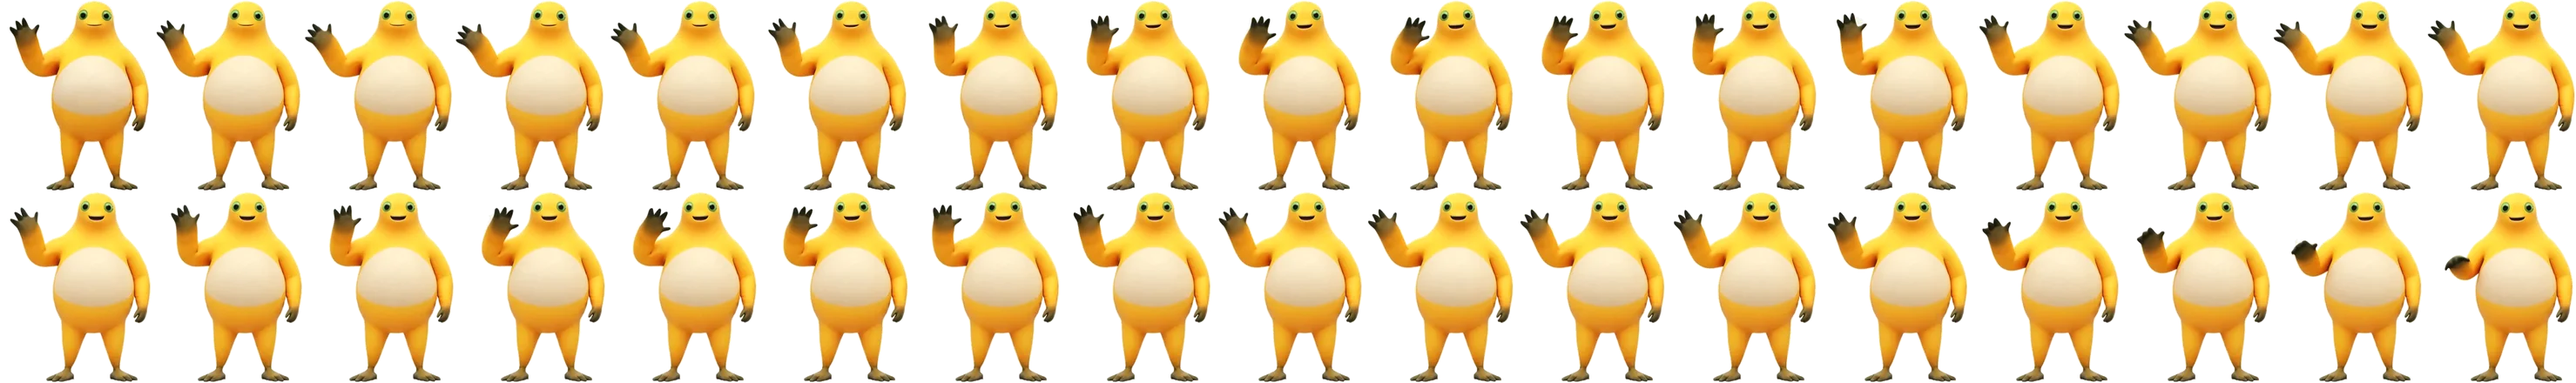
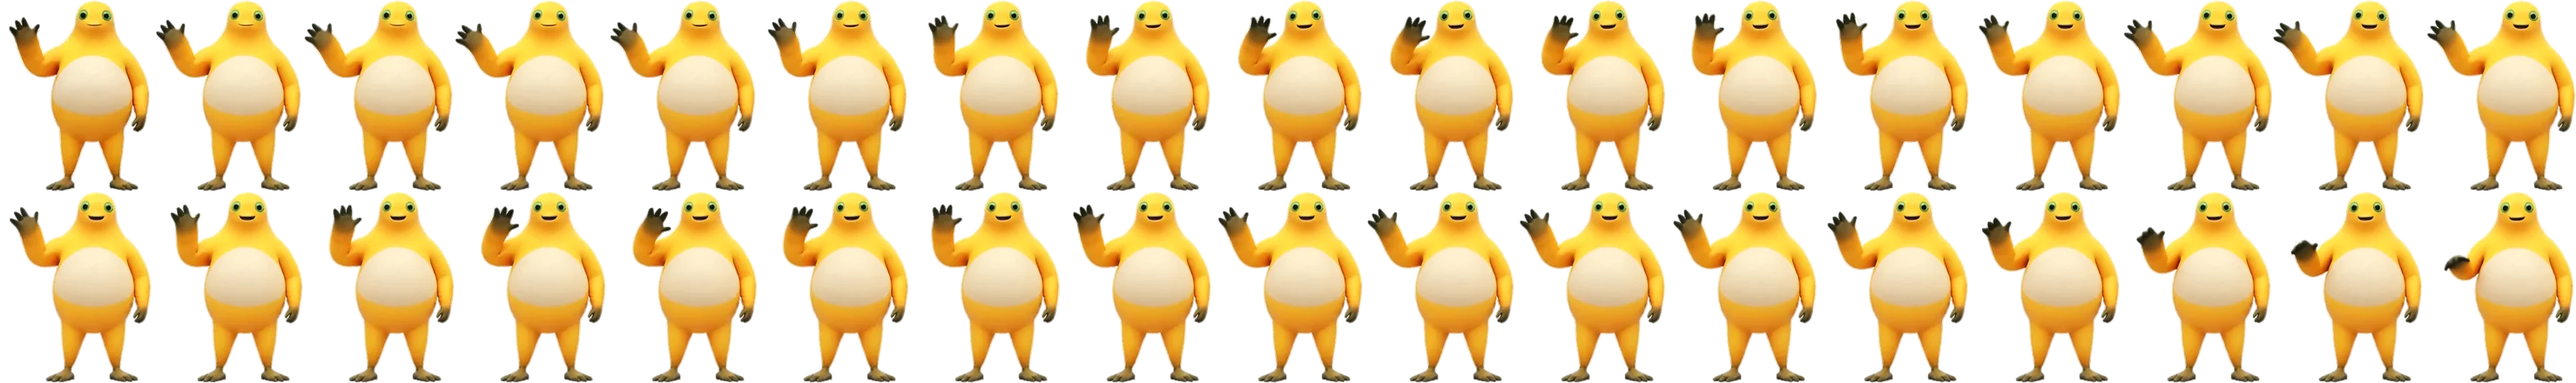
fix(deskpet): 挥手素材去掉白描边（边缘颜色外推，边缘与内部亮度差 52.05→3.14）

diff --git a/docs/状态.md b/docs/状态.md
@@ -6,6 +6,8 @@
 
 ## 一句话状态
 
[1 lines of base64/hex data omitted]
+
 **2026-11-13 16:52（第三支动作「挥手」已实现并通过自检，分支 `deskpet-wave`，未合并、未打包）**——用户 m10261 原话：「@d:\Users\honor\Downloads\kling_20261113_作品_一只圆滚滚的黄色小怪_3634_0.mp4 这个是挥手的，只要后半段，前面的不要」。**「后半段」到底从哪切（[实测]）**：素材 1280×720、24fps、121 帧、5.04 秒。逐帧测前景框与帧间运动量，发现**第 61 帧是一次硬切**——运动量从前面每帧 3~5 突增到 **34.33**，bbox 从 `y9-179 x59-290` 变成 `y13-169 x91-205` ⇒ 这视频是 AI 生成的两段拼接，**1~60 帧是另一个机位（身体偏左、景别不同），61~121 帧才是正面居中真正挥手**。**再细分**（测左上方深棕手部 `(99,68,29)` 的重心 x）：61~94 帧手在 x438~531 之间往返三轮（振幅 93px）是真挥手；**95 帧起手放下**（暗像素 3658→1455），121 帧几乎不动（运动量 0.03~0.1）。⇒ 只取 **61~94 共 34 帧（约 1.4 秒）**，末尾 27 帧放进去会白占 1.1 秒。**抠图**：背景纯色 `(242,240,236)`、`bg=(ch<18)&(mn>228)` 命中 84.18%；**右下角有「可灵AI」水印，必须 `bg[560:,600:]=True` 强制算背景**；`BOX=(300,30,870,700)`，四边泛洪 + 8 连通取最大块 + `GaussianBlur(1.2)` + `fill_transparent(r=7,iters=3)` + 过渡带反算去白 `rgb=(c-(1-aa)*B)/max(aa,1e-3)`。并集包围盒 `U=(34,20,534,651)` 500×631。**成品**：`src/renderer/src/assets/pet/bean-wave.webp` = **2958×440、17 列 × 2 行、每格 174×220、34 帧、WebP q84、260900 B**；颜色统一到站立正面基准（位移 `(+14,+16,+6)`，素材身体黄中位 `(224,157,37)` → `(238,173,43)`）。**代码**：`types.ts` 的 `PetAction` 加 `'wave'`；`skinPhoto.tsx` 加 `WAVE_COLS=17`/`WAVE_FRAMES=34`/`WAVE_CELL_RATIO=174/220` 与 `ACTION_SPECS.wave`；`preload/index.ts` 的 `onPetAction` 类型加 `'wave'`；`petWindow.ts` 右键菜单「打个滚」后加「挥挥手」。**e2e 新增 P9l-0~P9l-7 八条**（`data-pet-action` 变 wave / 17 列 34 帧 / 帧推进 / 格宽按 174-220 从源码正则读不写死 / 按自己 2.3 秒复位 / 素材落盘 >200KB / 菜单标签与 send 成对）。**本轮最大的坑**：第一次跑 e2e 时 P9l-1~P9l-5 与 P9j-2/P9j-3 全红，报 `{"实际":""}`——**不是代码错，是 e2e 加载 `out/` 构建产物而我只改了 `src/`，没跑 `npm run build`**；构建后 83 过 0 败全绿。**[实测]** `npm run typecheck` EXIT=0、`npm run build` EXIT=0（`bean-wave-CEd88SRT.webp 260.90 kB`）；`e2e-deskpet-out` **PASS（83 过 / 0 败）**；回归 `e2e-deskpet` 33/0、`e2e-head-order` 14/0、`e2e-collapse-order` 22/0、`e2e-settings-shell` 51/0、`e2e-m2` PASS。**未验证**：①真人观感（2.3 秒挥手是否太快、振幅够不够）②34 帧这个切点是本鱼鱼按运动量定的，用户只说「只要后半段」。SPEC 见 `docs/Spec/SPEC-deskpet-action.md` 第 7.13 节。
 
 **2026-11-13 15:55（用户 m09863「颜色有点暗了，参考图片的颜色亮度，三个全部统一一下」已修，提交 `b93b463`，分支 `deskpet-action2`，未合并、未打包）**——用户发来桌面上的 `桌宠转身-四帧.png`（994×390）当参考。**先量参考图**：按四列切开量身体黄中位，正面 (237,172,43)、侧左 (244,190,49)、背面 (245,192,48)、侧右 (244,190,49)，与 `bean-photo*.png` 三张素材逐个吻合 ⇒ **参考图就是当前三视图的合成，站立并不暗，暗的是两支动作**。**再按亮度分布量**（判据 `al>200` 取前景、`0.299R+0.587G+0.114B`）：站立三视图中位 **190.8**、亮度<120 占 **6.2%**；打滚改前中位 181.7、<120 占 **18.0%**；大笑改前中位 183.0、<120 占 **13.0%**。⇒ **问题不是中位色偏暗，是视频素材自带光影导致暗部占比过多（站立的三倍）**。**试过但不合适**：整体 gamma（0.9/0.82/0.75）会把中间调一起抬高，gamma0.75 时打滚 25% 分位 141.9→169.3 已超过站立的 163.2，且黄体蓝通道从 47 漂到 71 明显偏白；「只抬暗部」的 `shadow +18/+28/+38` 曲线中位数纹丝不动（172.0→172.1），改不动整体观感。**最终修法**：以 0.25 分位划分段线性映射，把每支动作的亮度分布对齐到站立三视图的分布（暗部整体抬起、亮部基本不动），超亮时按最大通道归一避免偏色；逐块（100 行）处理规避内存不足。**结果（[实测]）**：打滚中位 181.7→**190.0**、<120 从 18.0%→**6.3%**；大笑中位 183.0→**190.0**、<120 从 13.0%→**6.4%**（站立基准 190.8 / 6.2%）。**素材**：`bean-roll.webp` 4008×880 / 82 帧 / **364898 B**（SHA256 `3E3880D8…7A88`）、`bean-laugh.webp` 8532×440 / 108 帧 / **594960 B**（SHA256 `68C43348…0E02`）；旧版备份 `.backups/bean-roll.webp.bak.20261113-before-lum`（366884 B）、`.backups/bean-laugh.webp.bak.20261113-before-lum`（603252 B）。**验证（[实测]）**：`e2e-deskpet-out` **PASS（75 过 / 0 败）**；回归 `e2e-deskpet` 33/0、`e2e-m2` PASS、`e2e-head-order` 14/0、`e2e-collapse-order` 22/0、`e2e-settings-shell` 51/0（首轮 `e2e-deskpet` 与 `e2e-collapse-order` 各撞一次 `Error: no settings target` 偶发，单独重跑即 33/0 与 22/0）。**踩坑**：整张 sheet 直接算 float64 会 `_ArrayMemoryError`（要 80.7 MiB），必须逐块处理；`Image.save(..., 'WEBP', method=6)` 在一次运行里第二次调用会 `ValueError: encoding error 1`，改 `method=4` 才稳。**未验证**：亮度映射是「按分位对齐」不是「按像素对齐」，暗部抬升后肤色会不会在个别帧显平；牙齿在 106×140 显示尺寸下仍基本看不见（用户 m09813 明确要求不额外提亮，这是取舍不是遗漏）。**上一条同轮次的后续**：牙齿真因是 `bg` 判据 `(ch<20)&(mn>235)` 把亮白牙齿判成背景吃掉 160/336 px（插桩 `inspect.getsource(cut)` 逐行 `print` 实测），修法是先算 `teeth_mask`（口腔 = 被围暗块中**面积最大且亮度中位<45** 的那一个，膨胀 16px 后取 `mn>170&ch<70&~outside`），再让 `bg`/`shadow_ok`/`solid` 全部排除它；中间撞过三个反直觉的坑（不能用 `&~bg` 过滤、不能用 `& body` 交集、背景判据是 `mn>BG_MIN` 不是 `<`），后两个坑会让口罩掩码跑到脸外、并集裁剪框 472→480、格宽 167→170。「身体不完整」实测只有边缘收细级别 1~2%（帧 15 被抠 359/11471=3.13%），真因是 `MinFilter(3)` 每帧吃 2400~3300 个不透明像素，已做成 `USE_MIN3` 开关并关掉（白边像素 Min3=26 / 无 Min3=30，差别很小）。
@@ -101,13 +103,15 @@
 > **改完 `src/` 必须先 `npm run build` 再跑 e2e**——e2e 加载的是 `out/` 构建产物，只改 `src/` 会得到一片假红（2026-11-13 挥手那一轮就撞了：P9l-1~P9l-5 与 P9j-2/P9j-3 全红，构建后 83/0 全绿）。
 >
 > - `deskpet-wave` 上的提交：`dd42709`（打滚）起的十来个已全部合进 `main`，本分支只有「挥手」这一项改动。
-> - **`deskpet-wave` 分支上比 `main` 多什么**：`src/renderer/src/assets/pet/bean-wave.webp`（**2958×440、17 列 × 2 行、每格 174×220、34 帧、260900 B**）、`PetAction` 加 `'wave'`、`skinPhoto.tsx` 的 `WAVE_COLS=17`/`WAVE_FRAMES=34`/`WAVE_CELL_RATIO=174/220` 与 `ACTION_SPECS.wave`、`preload` 的 `onPetAction` 类型加 `'wave'`、`petWindow.ts` 右键菜单第三项「挥挥手」、e2e P9l-0~P9l-7。
+> - **`deskpet-wave` 分支上比 `main` 多什么**：`src/renderer/src/assets/pet/bean-wave.webp`（**2958×440、17 列 × 2 行、每格 174×220、34 帧、268412 B**）、`PetAction` 加 `'wave'`、`skinPhoto.tsx` 的 `WAVE_COLS=17`/`WAVE_FRAMES=34`/`WAVE_CELL_RATIO=174/220` 与 `ACTION_SPECS.wave`、`preload` 的 `onPetAction` 类型加 `'wave'`、`petWindow.ts` 右键菜单第三项「挥挥手」、e2e P9l-0~P9l-7。
 > - **[实测]** `deskpet-wave` 上的数字：typecheck EXIT=0、build EXIT=0、`e2e-deskpet-out` **PASS（83 过 / 0 败）**、`e2e-deskpet` 33/0、`e2e-m2` PASS、`e2e-head-order` 14/0、`e2e-collapse-order` 22/0、`e2e-settings-shell` 51/0。
+> - **挥手白描边已修（2026-11-13 17:00，用户 m10619「挥手又白色描边，扣仔细点」）**：真因不是缩放方式，而是**边缘半透明像素里混着背景白 `(242,240,236)`**——`fill_transparent` 只处理 alpha 很小的透明区，抗锯齿带没被换色。四种缩放对照（直接 LANCZOS / 预乘 / BOX / 预乘+BOX）都只从 52.05 降到 27.99，等于没用；**有效修法是边缘颜色外推** `outward_fill(a, alpha>=0.90, iters=8, r=3)`，把不透明内部颜色推向半透明边缘，边缘−内部亮度差 **52.05 → 3.14**、近白像素 **40.3% → 0.4%**（205/52289）。成品 260900 → **268412 B**，尺寸格数不变，重建两次 SHA256 都是 `CEA99E69…0B358A`（可复现）。旧版备份 `.backups/bean-wave.webp.bak.20261113-before-rim`。正式脚本 `.tmp/wave_build_final.py`。
 >
 > **用户实测反馈的问题已修完**（编号连续沿用，1~17 见 git 历史与 SPEC 第 7.x 节；下面只留最近三条的要点）：
 > 15. 「牙齿没了」「身体不完整」——牙齿真因是背景判据 `bg=(ch<20)&(mn>235)` 把亮白牙齿判成背景（插桩实测吃掉 160/336 px），修法是先算 `teeth_mask` 保护口腔；「身体不完整」实测只有边缘收细 1~2%，元凶是 `MinFilter(3)` 每帧吃 2400~3300 px，已关掉。
 > 16. 「牙齿扣的太过了，还把眼睛给扣白了」——瞳孔自己就是「被围暗块且亮度中位<45」，混进口腔候选后膨胀 16px 把眼白圈进去一起提亮。改成只取面积最大的那一个暗腔，且 `TEETH_BOOST=0.0` 完全不提亮。
 > 17. 「颜色有点暗了，三个全部统一一下」+「肚皮上面会有黄色」——亮度用分位划分段映射对齐到站立分布（打滚/大笑 暗部占比 18%/13% → 6.3%/6.4%）；黄斑是分档匹配的副作用（肚皮渐变跨多档出现断层），改成**连续不分档**的色相校正（只往橙调拉、限幅 −26°），斑驳度打滚 2.48→1.93、大笑 2.73→2.02。
+> 18. 「挥手又白色描边，扣仔细点」——边缘抗锯齿带混进背景白，四种缩放方式都无效（最好也只降一半），改成把不透明内部颜色外推到半透明边缘；边缘−内部亮度差 52.05→3.14、近白占比 40.3%→0.4%。
 >
 > **3D 问题已落地为第二条路**：用户先选第一条（真 3D），看过排期后改选第二条（四视图切换伪 3D）。已实现四视图转身，**以后想上真 3D 只需再增加一套皮肤，不推翻这一轮的任何东西**（`PetSkin` 接口不变；Blender 4.5.10 已装，`.tmp/webgl-probe.html` 实测透明窗口里 WebGL2 60 帧、背景真透明，平台无障碍）。
 >
@@ -116,7 +120,7 @@
 > - 桌宠玩法（吃文件 / 专注守卫 / 音乐小生物 / 电量小怪物）不做，用户原话「先不做，先保留」。
 > - 「宠物出岛后不留岛上」**已是现状**，不用改；长大版也照这规矩做。
 >
-> **下一步**：①让用户看「挥手」（`deskpet-wave` 分支，预览版已重启），确认后合并回 `main`。②合并后重新打包装机（`D:\软件\灵动岛\` 落后一整批，用户要求平时只开预览版，装机要单独约时间）。③用安装版验两件 e2e 覆盖不到的事：点一下会不会笑、拖到别处重启后是否还记得位置。④体型差异（视频角色肚子更大、头更小）只能靠重做素材对齐，用户说处理再动。**桌宠玩法与模式 3 自由走动都还没开工。**
+> **下一步**：①让用户看「挥手」（`deskpet-wave` 分支，白描边已修、预览版待重启），确认后合并回 `main`。②合并后重新打包装机（`D:\软件\灵动岛\` 落后一整批，用户要求平时只开预览版，装机要单独约时间）。③用安装版验两件 e2e 覆盖不到的事：点一下会不会笑、拖到别处重启后是否还记得位置。④体型差异（视频角色肚子更大、头更小）只能靠重做素材对齐，用户说处理再动。**桌宠玩法与模式 3 自由走动都还没开工。**
 
 1. 读 `AGENTS.md`（知道该读什么）→ `docs/facts/` 里与本次任务相关的文档 → 本文件。
 2. **P1 已全部完成**（见下节表格）；新功能从 `docs/facts/用户角色与用户故事.md` 第 3.8 节的处理结论与 `docs/facts/里程碑.md`「尚未排期」里挑，别把「已否决不做」当成待办。
